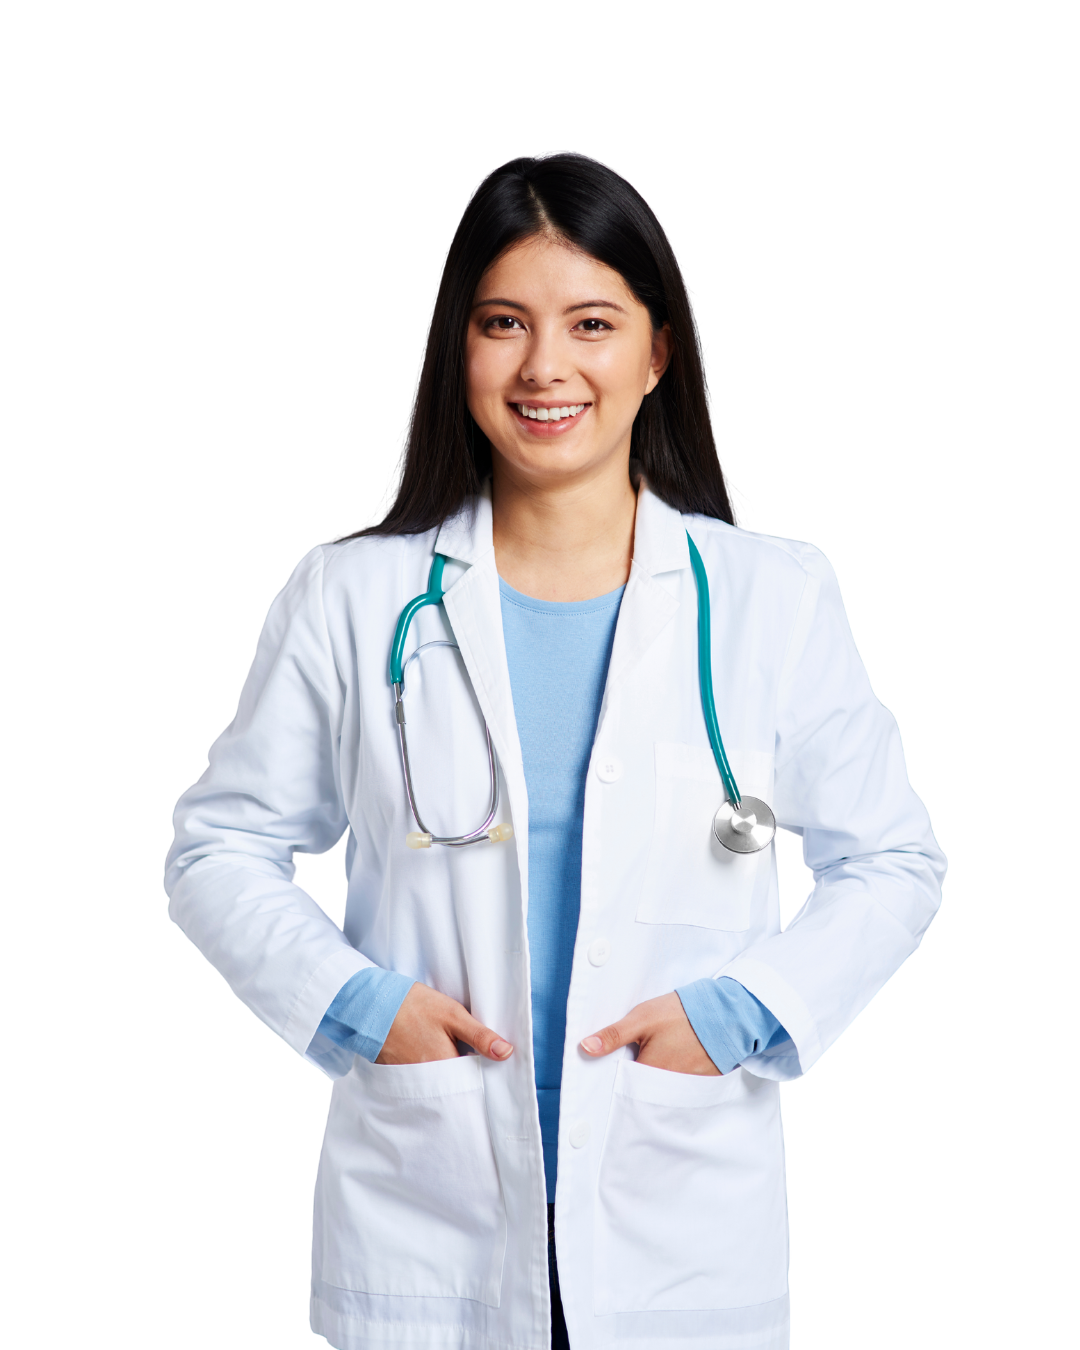
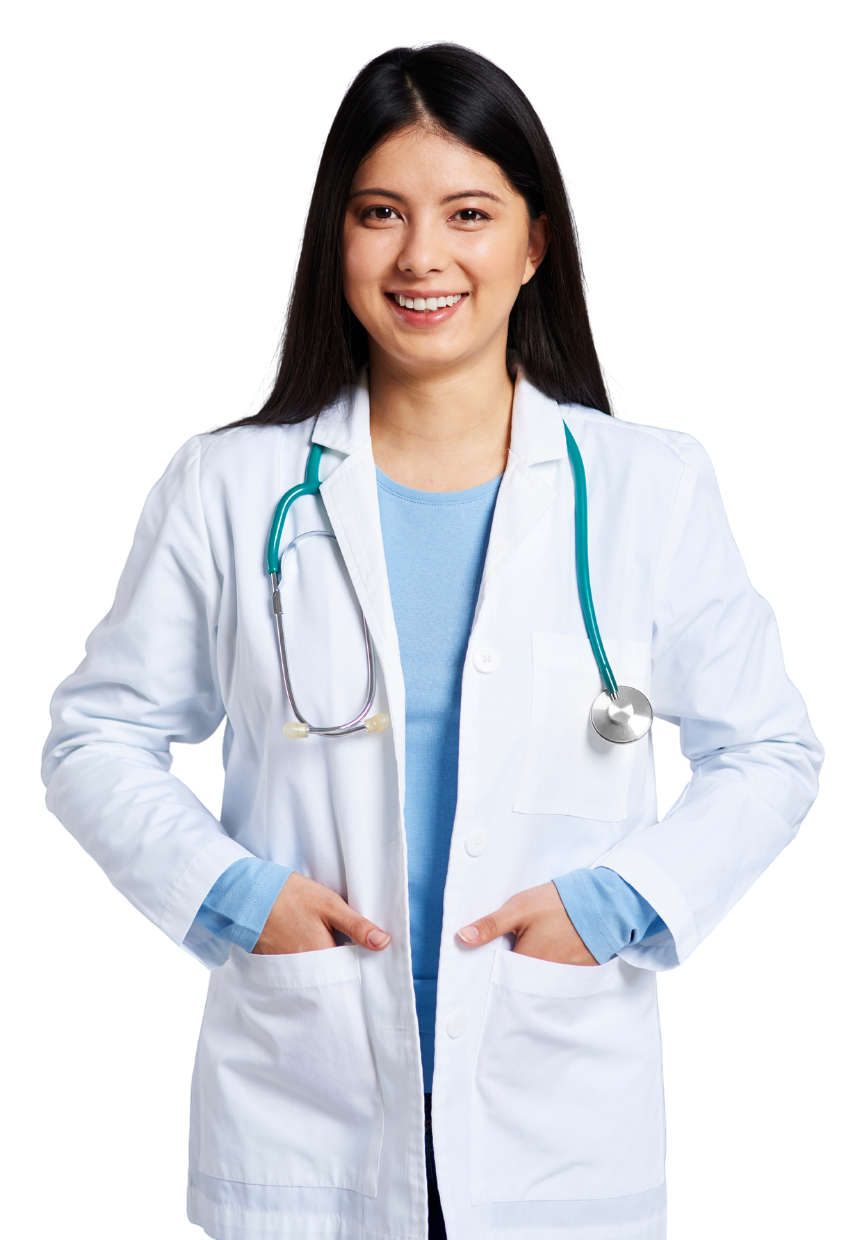
Recortar foto da doctora no hero da LP webinar-clinicas-latam (#246)

diff --git a/landing-pages/cxpress/webinar-clinicas-latam/index.html b/landing-pages/cxpress/webinar-clinicas-latam/index.html
@@ -325,7 +325,7 @@
       position: relative;
       width: 100%;
       max-width: 460px;
-      aspect-ratio: 4/5;
+      aspect-ratio: 865/1240;
       border-radius: var(--radius-lg);
       overflow: hidden;
       background: var(--neutral-100);
